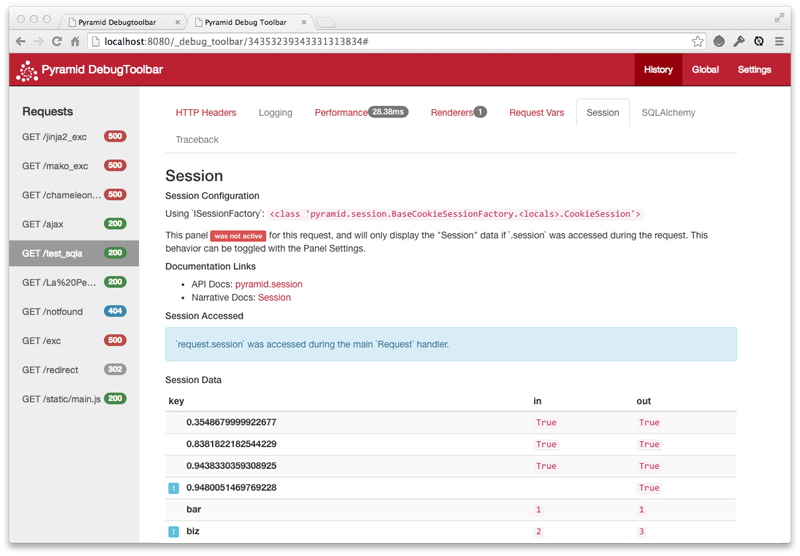
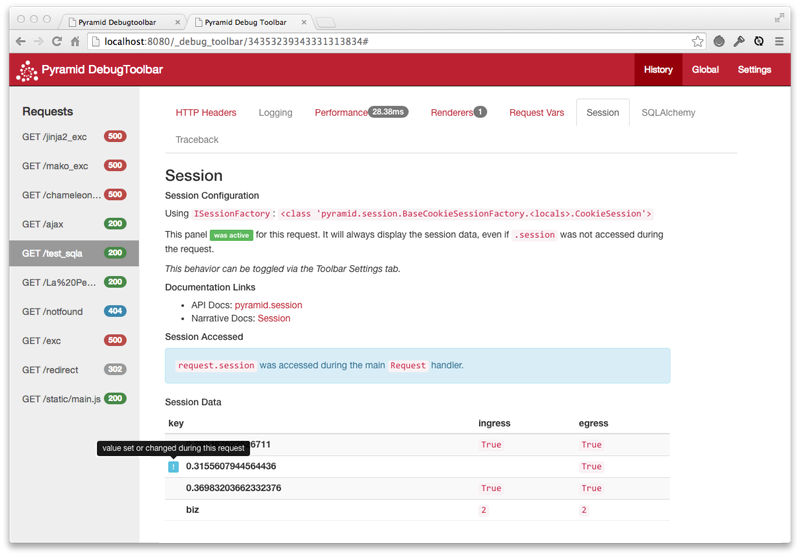
updates on feedback

diff --git a/src/pyramid_debugtoolbar/panels/session.py b/src/pyramid_debugtoolbar/panels/session.py
@@ -2,7 +2,7 @@ from pyramid.interfaces import ISessionFactory
 import zope.interface.interfaces
 
 from pyramid_debugtoolbar.panels import DebugPanel
-from pyramid_debugtoolbar.utils import dictrepr
+from pyramid_debugtoolbar.utils import dictrepr, wrap_load
 
 _ = lambda x: x
 
@@ -129,19 +129,21 @@ class SessionDebugPanel(DebugPanel):
 
                 # If the ``Session`` was not already loaded, then we may have
                 # just loaded it. This presents a problem for tracking, as we
-                # will not know if the ``Session`` was accessed or not.
-                # To handle this scenario we use a variant of the ``wrap_load``
-                # function from the ``request_vars`` tolbar:
-                def _session_wrapper(self):
+                # will not know if the ``Session`` was accessed during the
+                # request.
+                # To handle this scenario, replace ``request.session`` with a
+                # function to update the accessed marker and return the
+                # already loaded session.
+                def _session_accessed(self):
                     # This function updates the ``self.data`` information dict,
                     # and then returns the exact same ``Session`` we just
                     # deleted from the ``Request``.
                     data["session_accessed"]["main"] = True
                     return session
 
-                # Replace the existing ``ISession`` interface with our wrapper.
+                # Replace the existing ``ISession`` interface with the function.
                 self._request.set_property(
-                    _session_wrapper, name="session", reify=True
+                    _session_accessed, name="session", reify=True
                 )
 
         else:
@@ -149,27 +151,26 @@ class SessionDebugPanel(DebugPanel):
             This block handles the default situation:
             * The ``Session`` has not been already accessed and
               the Panel is not enabled
+
             """
-            orig_property = getattr(self._request.__class__, "session", None)
-            if orig_property is not None:
-                # We have a ``Session`` but it has not been accessed yet.
-                # The ``.session`` attribute is replaced with a variant of the
-                # ``wrap_load`` from the ``request_vars`` tolbar.
+
+            def _process_session_accessed(_session):
                 # The wrapper updates out information dict about how the
                 # ``Session`` was accessed and notes the ingress values.
+                data["session_accessed"]["main"] = True
+                # process the inbound session data
+                for k, v in dictrepr(_session):
+                    data["session_data"]["ingress"][k] = v
+                    data["session_data"]["keys"].add(k)
+                return _session
 
-                def wrapper(self):
-                    session = orig_property.__get__(self)
-                    # note the session was accessed during the main request
-                    data["session_accessed"]["main"] = True
-                    # process the inbound session data
-                    for k, v in dictrepr(session):
-                        data["session_data"]["ingress"][k] = v
-                        data["session_data"]["keys"].add(k)
-                    return session
-
-                # Replace the existing ``ISession`` interface with our wrapper.
-                self._request.set_property(wrapper, name="session", reify=True)
+            # only process the session if it's accessed
+            wrap_load(
+                self._request,
+                'session',
+                _process_session_accessed,
+                reify=True,
+            )
 
         return handler
 

diff --git a/tests/test_panels/test_session.py b/tests/test_panels/test_session.py
@@ -165,19 +165,23 @@ class _TestSessionPanel(_TestDebugtoolbarPanel):
             resp.text,
         )
         if is_configured:
-            self.assertIn("<p>Using `ISessionFactory`: <code>", resp.text)
+            self.assertIn(
+                "<p>Using <code>ISessionFactory</code>: <code>", resp.text
+            )
         else:
-            self.assertIn("<p>No `ISessionFactory` Configured</p>", resp.text)
+            self.assertIn(
+                "<p>No <code>ISessionFactory</code> Configured</p>", resp.text
+            )
         if is_accessed:
             self.assertIn(
-                "`request.session` was accessed during the main `Request` "
-                "handler.",
+                "<code>request.session</code> was accessed during the main "
+                "<code>Request</code> handler.",
                 resp.text,
             )
         else:
             self.assertIn(
-                "`request.session` was not accessed during the main `Request` "
-                "handler.",
+                "<code>request.session</code> was not accessed during the main "
+                "<code>Request</code> handler.",
                 resp.text,
             )
 

diff --git a/src/pyramid_debugtoolbar/panels/request_vars.py b/src/pyramid_debugtoolbar/panels/request_vars.py
@@ -1,7 +1,7 @@
 from pprint import saferepr
 
 from pyramid_debugtoolbar.panels import DebugPanel
-from pyramid_debugtoolbar.utils import dictrepr
+from pyramid_debugtoolbar.utils import dictrepr, wrap_load
 
 _ = lambda x: x
 
@@ -176,25 +176,6 @@ class RequestVarsDebugPanel(DebugPanel):
 
         # stop hanging onto the request after the response is processed
         del self.request
-
-
-def wrap_load(obj, name, cb, reify=False):
-    """Callback when a property is accessed.
-
-    This currently only works for reified properties that are called once.
-
-    """
-    orig_property = getattr(obj.__class__, name, None)
-    if orig_property is None:
-        # earlier versions of pyramid may not have newer attrs
-        # (ie, authenticated_userid)
-        return
-
-    def wrapper(self):
-        val = orig_property.__get__(obj)
-        return cb(val)
-
-    obj.set_property(wrapper, name=name, reify=reify)
 
 
 def includeme(config):

diff --git a/src/pyramid_debugtoolbar/utils.py b/src/pyramid_debugtoolbar/utils.py
@@ -267,3 +267,23 @@ def get_exc_name(exc):
     if module == 'exceptions' or module == 'builtins':
         return name
     return '%s.%s' % (module, name)
+
+
+def wrap_load(obj, name, cb, reify=False):
+    """Callback when a property is accessed.
+
+    This currently only works for reified properties that are called once.
+
+    Originally written for the `Request Vars` panel.
+    """
+    orig_property = getattr(obj.__class__, name, None)
+    if orig_property is None:
+        # earlier versions of pyramid may not have newer attrs
+        # (ie, authenticated_userid)
+        return
+
+    def wrapper(self):
+        val = orig_property.__get__(obj)
+        return cb(val)
+
+    obj.set_property(wrapper, name=name, reify=reify)

diff --git a/src/pyramid_debugtoolbar/toolbar.py b/src/pyramid_debugtoolbar/toolbar.py
@@ -62,8 +62,8 @@ class DebugToolbar(object):
         self.default_active_panels = default_active_panels
         self.visible = False
 
-        # Panels can be be activated (more features) (e.g. Performace panel)
-        # toolbar.js controls this cookie with the following concepts
+        # Panels can be be activated (more features) (e.g. Performance panel)
+        # toolbar.js controls this cookie with the following concepts:
         #   COOKIE_NAME_ACTIVE = 'pdtb_active'
         #   COOKIE_DELIM_ACTIVE = ','
         pdtb_active = url_unquote(request.cookies.get('pdtb_active', ''))
